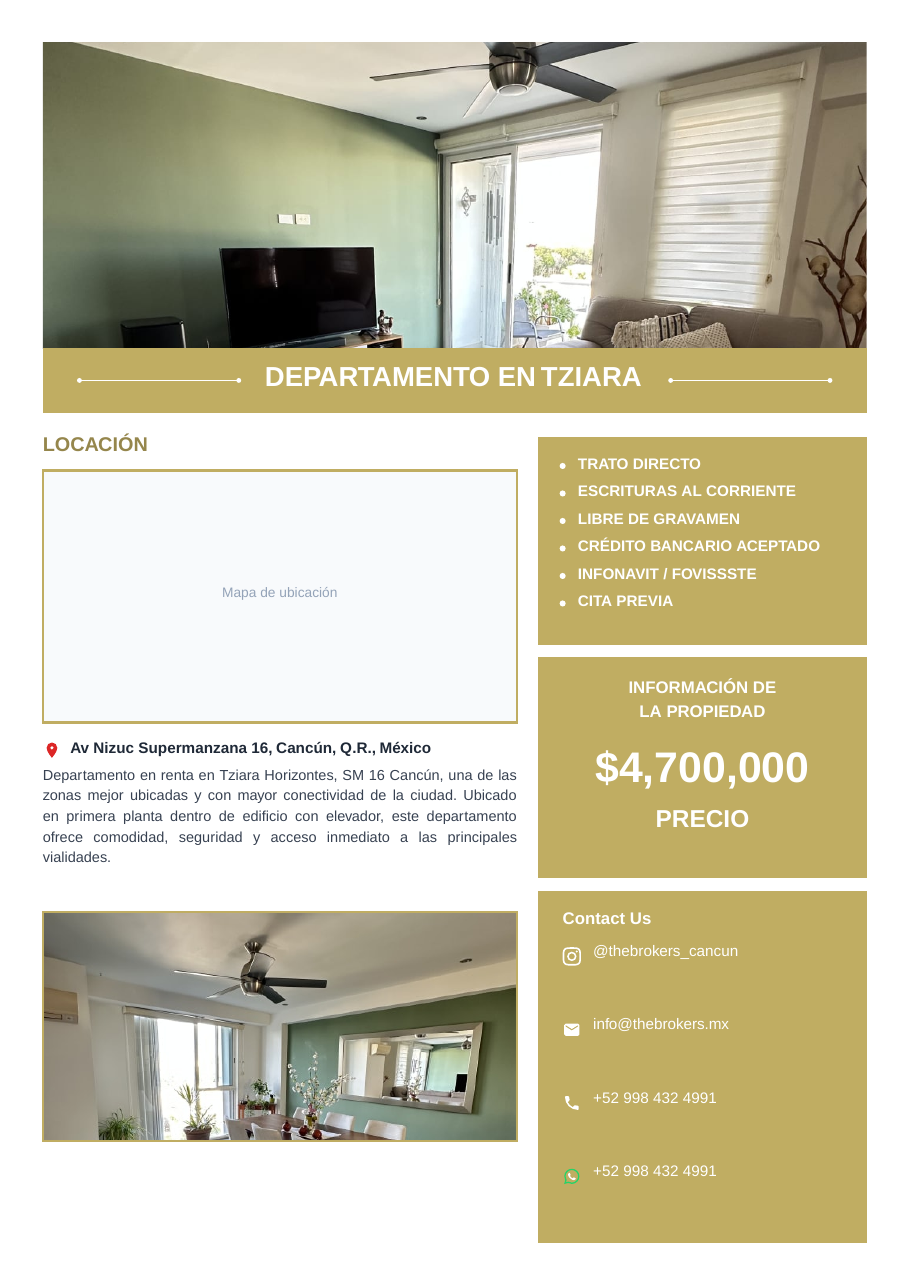
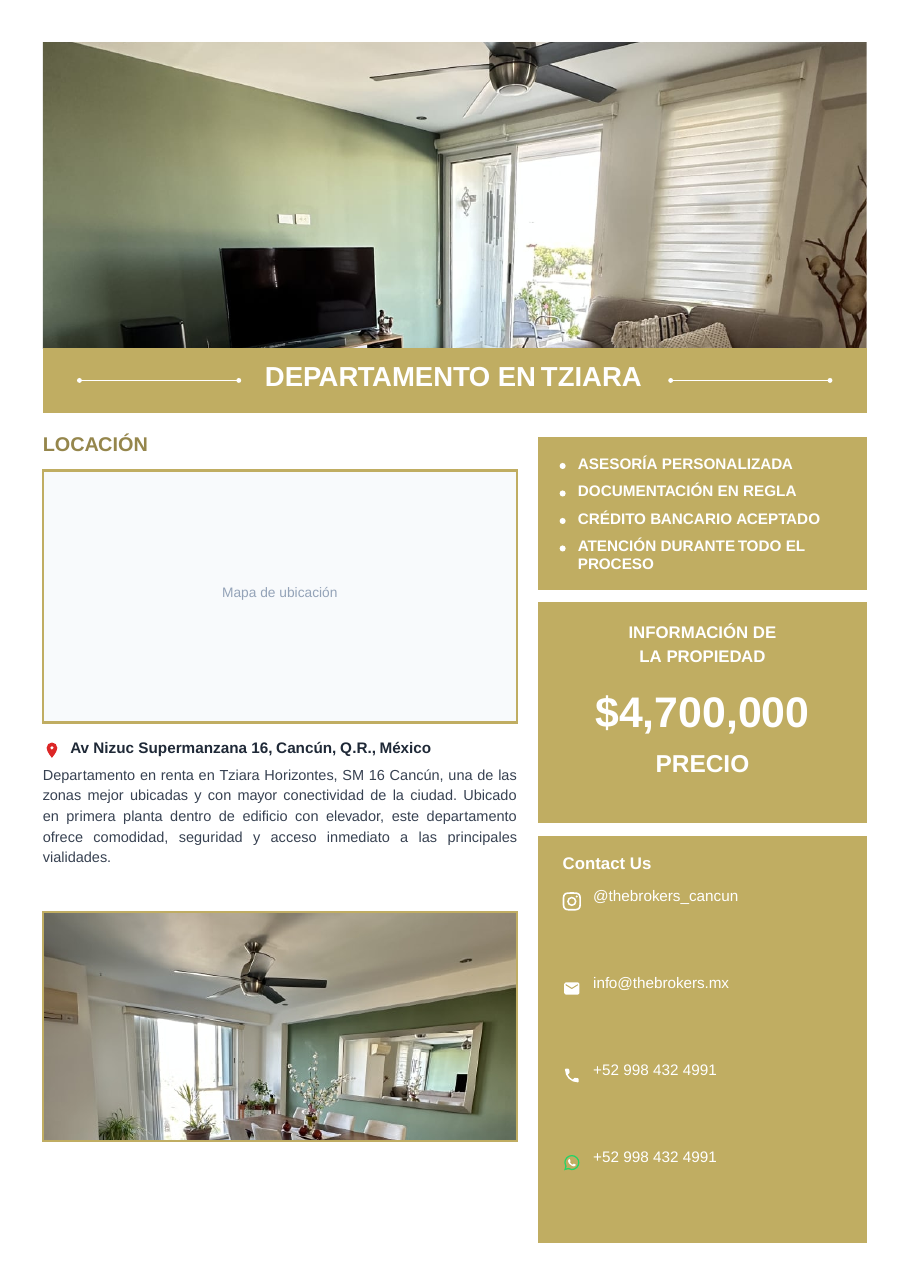
auto-commit for c8e985ca-0c60-4901-a1c0-0117cae9877f

Changed region(s): [[0.5846, 0.3419, 0.9538, 0.9324], [0.6154, 0.9013, 0.6462, 0.9324]]

diff --git a/src/lib/pdf.js b/src/lib/pdf.js
@@ -737,30 +737,23 @@ function buildAmenitiesList(p) {
   return out;
 }
 
-/** Lista de requisitos para el bloque derecho de página 2.
- *  Si el cliente la cargó en `requisitos` la usamos; si no, default razonable. */
+/** Lista de viñetas para el bloque superior derecho de página 2 (con-agente).
+ *  Copy fijo aprobado por cliente, depende de `tipo_operacion`. */
 function buildRequisitos(p) {
-  if (p.requisitos && typeof p.requisitos === 'string') {
-    return p.requisitos.split(/[,\n]/).map((s) => s.trim()).filter(Boolean).slice(0, 7);
-  }
-  const op = String(p.tipo_operacion || '').toLowerCase();
+  const op = String(p?.tipo_operacion || '').toLowerCase();
   if (op === 'renta') {
     return [
-      'Renta largo plazo',
-      'Requisitos',
-      '1 mes de renta',
-      '1 depósito',
-      'Estudio socioeconómico',
-      'Mascotas bienvenidas',
+      'Asesoría personalizada',
+      'Requisitos accesibles',
+      'Proceso transparente',
+      'Atención durante todo el proceso',
     ];
   }
   return [
-    'Trato directo',
-    'Escrituras al corriente',
-    'Libre de gravamen',
+    'Asesoría personalizada',
+    'Documentación en regla',
     'Crédito bancario aceptado',
-    'Infonavit / Fovissste',
-    'Cita previa',
+    'Atención durante todo el proceso',
   ];
 }
 

diff --git a/scripts/preview-pdf-redesign.js b/scripts/preview-pdf-redesign.js
@@ -57,6 +57,23 @@ async function main() {
     console.log('OK ·', (stats.size / 1024).toFixed(1) + ' KB');
   }
 
+  // Variante extra: forzar tipo_operacion='renta' para verificar las viñetas de renta.
+  // Sólo genera con-agente-2pag (que es la versión donde aparece el bloque de viñetas).
+  process.stdout.write('  · generando con-agente-2pag-RENTA-test… ');
+  const rentaRecord = JSON.parse(JSON.stringify(record));
+  rentaRecord.properties.tipo_operacion = 'renta';
+  const rentaDoc = await buildPropertyPDF({
+    record: rentaRecord, brand, agent,
+    withAgent: true, twoPages: true,
+    baseUrl: `https://${brand?.subdominio || 'preview.mktscaled.com'}`,
+  });
+  const rentaPath = path.join(OUT_DIR, 'con-agente-2pag-RENTA-test.pdf');
+  const rws = fs.createWriteStream(rentaPath);
+  rentaDoc.pipe(rws);
+  rentaDoc.end();
+  await new Promise((res, rej) => { rws.on('finish', res); rws.on('error', rej); });
+  console.log('OK ·', (fs.statSync(rentaPath).size / 1024).toFixed(1) + ' KB');
+
   console.log('\nlisto: ls -la', OUT_DIR);
 }
 
